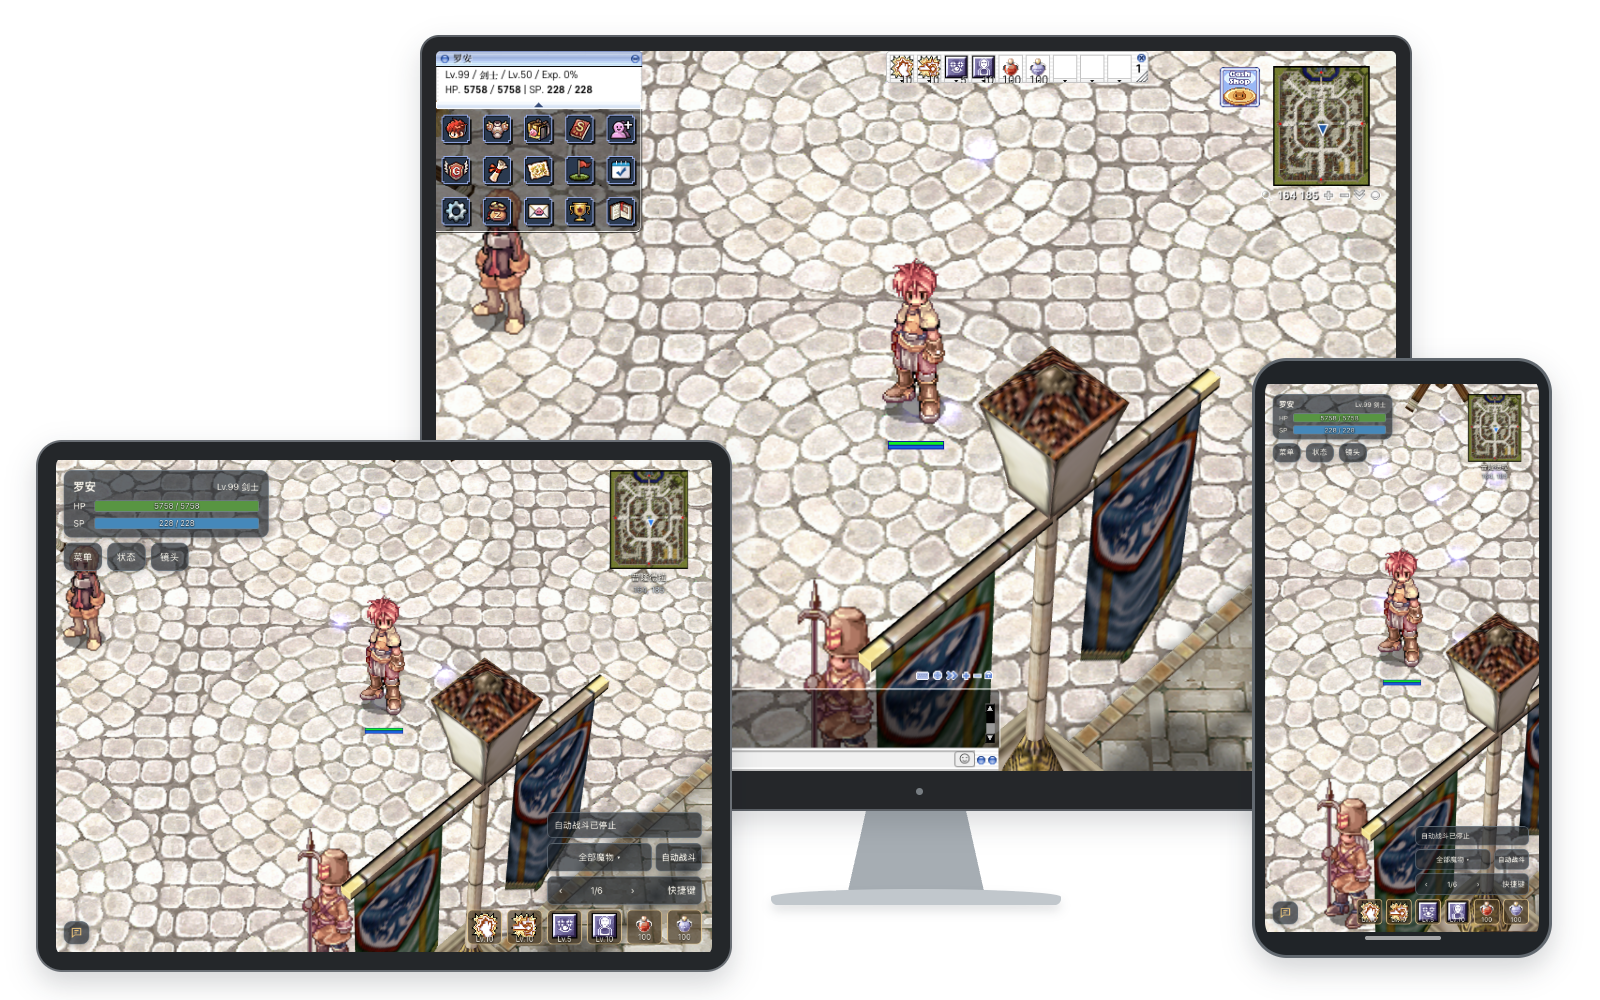
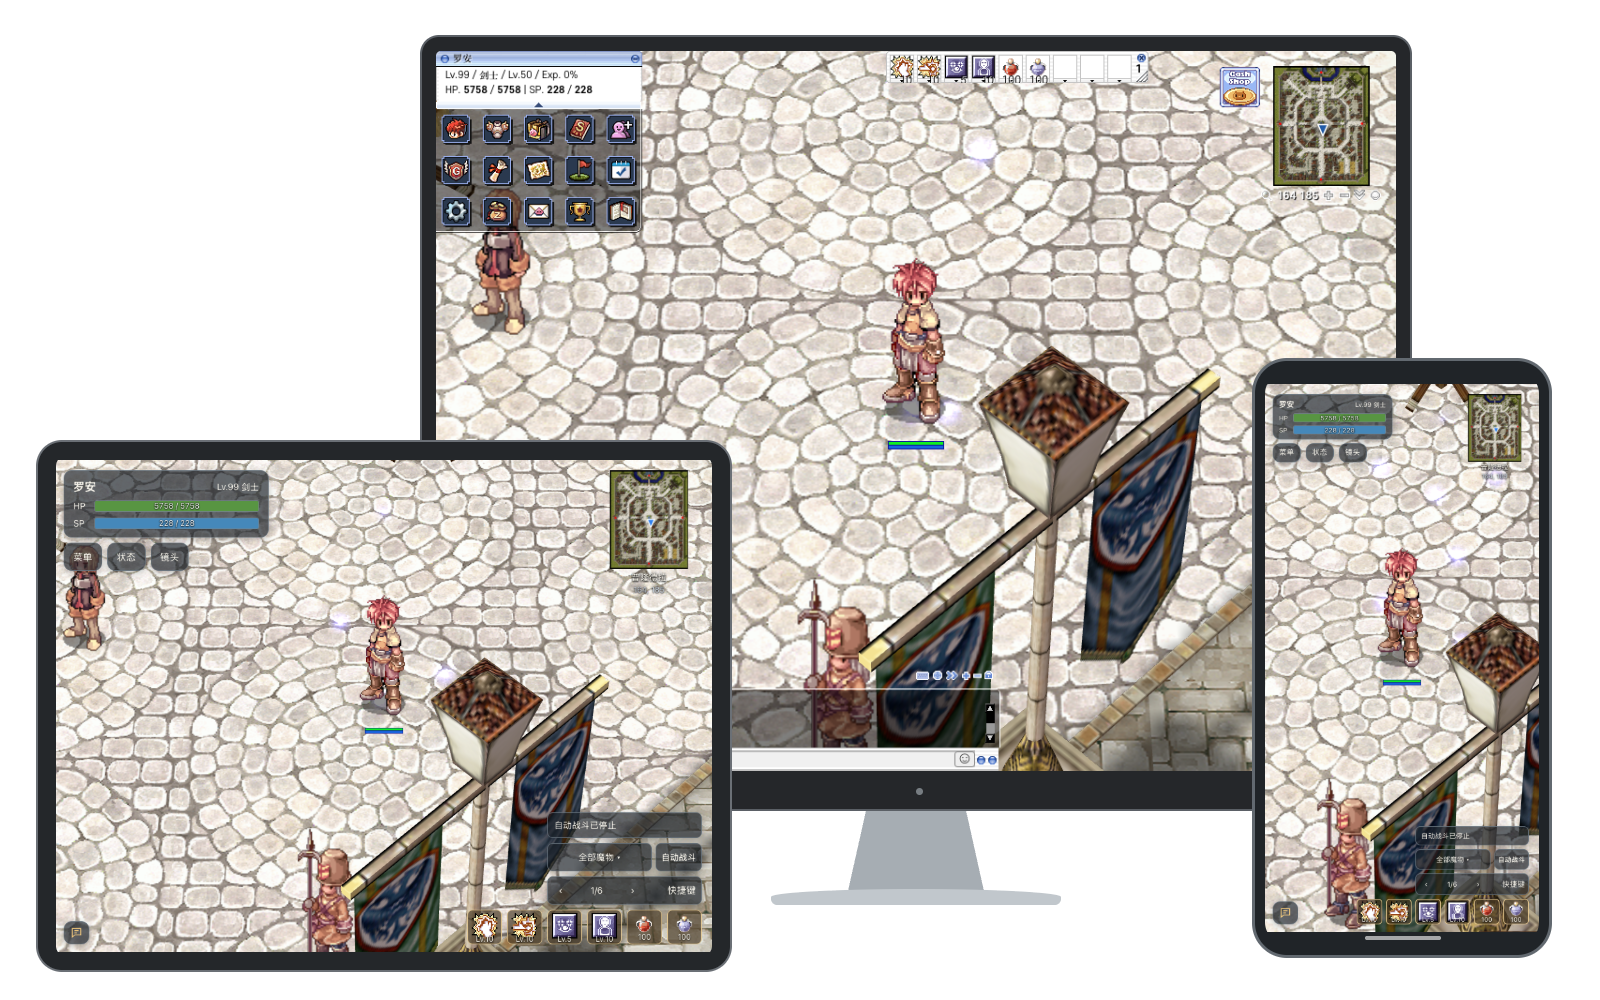
docs(readme): remove device frame shadows

diff --git a/docs/development/readme-images/templates/compose.html b/docs/development/readme-images/templates/compose.html
@@ -5,12 +5,12 @@
 <style>
 *{box-sizing:border-box}body{margin:0;background:transparent}img{display:block;width:100%;height:100%;object-fit:contain}
 .hero{position:relative;width:1600px;height:1000px;overflow:hidden;background:transparent}
-.monitor{position:absolute;left:420px;top:35px;width:992px;height:776px;padding:14px 14px 38px;background:#25272a;border-radius:19px;box-shadow:0 12px 28px #141b2426;border:2px solid #5b6066}
+.monitor{position:absolute;left:420px;top:35px;width:992px;height:776px;padding:14px 14px 38px;background:#25272a;border-radius:19px;border:2px solid #5b6066}
 .monitor img{height:720px;border-radius:5px}.monitor:after{content:"";position:absolute;width:7px;height:7px;background:#777d82;border-radius:50%;bottom:14px;left:50%}
 .stand{position:absolute;left:846px;top:806px;width:140px;height:94px;background:#a6adb3;clip-path:polygon(15% 0,85% 0,100% 100%,0 100%)}
-.foot{position:absolute;left:771px;top:889px;width:290px;height:16px;background:#c1c7cc;border-radius:50% 50% 6px 6px;box-shadow:0 6px 10px #141b2420}
-.tablet{position:absolute;left:36px;top:440px;width:696px;height:532px;padding:14px 18px;border:2px solid #6b7076;background:#24272a;border-radius:26px;box-shadow:0 12px 28px #141b2430}
-.tablet img{border-radius:10px}.phone{position:absolute;left:1252px;top:358px;width:300px;height:600px;padding:10px;border:3px solid #626970;background:#202428;border-radius:35px;box-shadow:0 12px 28px #141b2430}
+.foot{position:absolute;left:771px;top:889px;width:290px;height:16px;background:#c1c7cc;border-radius:50% 50% 6px 6px}
+.tablet{position:absolute;left:36px;top:440px;width:696px;height:532px;padding:14px 18px;border:2px solid #6b7076;background:#24272a;border-radius:26px}
+.tablet img{border-radius:10px}.phone{position:absolute;left:1252px;top:358px;width:300px;height:600px;padding:10px;border:3px solid #626970;background:#202428;border-radius:35px}
 .phone img{border-radius:23px}.phone:after{content:"";position:absolute;bottom:15px;left:110px;width:76px;height:4px;border-radius:4px;background:#fff9}
 .skills{width:1600px;height:858px;background:transparent;display:flex;align-items:center;justify-content:center;gap:55px;padding:30px}
 .skills .wide{position:relative;width:1044px;height:798px;flex:none}.skills .tall{position:relative;width:399px;height:798px;flex:none}

diff --git a/docs/development/readme-images/composition.md b/docs/development/readme-images/composition.md
@@ -22,13 +22,13 @@
 
 桌面原图为 1024 × 768，以 960 × 720 等比显示；平板与手机保留完整原图，三端镜头固定为 90 / 85 / 20。
 
-电脑 padding 为 `14px 14px 38px`，图片元素高度 720px；平板 padding 为 `14px 18px`；手机 padding 为 10px。阴影、屏幕圆角、指示灯和手势条以模板 CSS 为完整依据。坐标表为外框，不应拿来拉伸原图。
+电脑 padding 为 `14px 14px 38px`，图片元素高度 720px；平板 padding 为 `14px 18px`；手机 padding 为 10px。屏幕圆角、指示灯和手势条以模板 CSS 为完整依据。坐标表为外框，不应拿来拉伸原图。
 
 ## 技能对比图参数
 
 画布 1600 × 858，透明背景，上下保留 30px，设备间距 55px，整体水平居中。
 
-第二张复用首图的 `.tablet`、`.phone` 设备框，包括背景色、边框、屏幕圆角、阴影及手机手势条；不再维护另一套简化框。平板按 1.5 倍显示为 1044 × 798，手机按 1.33 倍显示为 399 × 798，两者等高。各自等比缩放，不拉伸截图。
+第二张复用首图的 `.tablet`、`.phone` 设备框，包括背景色、边框、屏幕圆角及手机手势条；不再维护另一套简化框。两张图均不添加设备外框或底座阴影。平板按 1.5 倍显示为 1044 × 798，手机按 1.33 倍显示为 399 × 798，两者等高。各自等比缩放，不拉伸截图。
 
 屏幕仍以 `object-fit: contain` 完整显示；比例差产生的少量空隙由设备深色背景承接，不透明露底，不出现白色内边。
 
